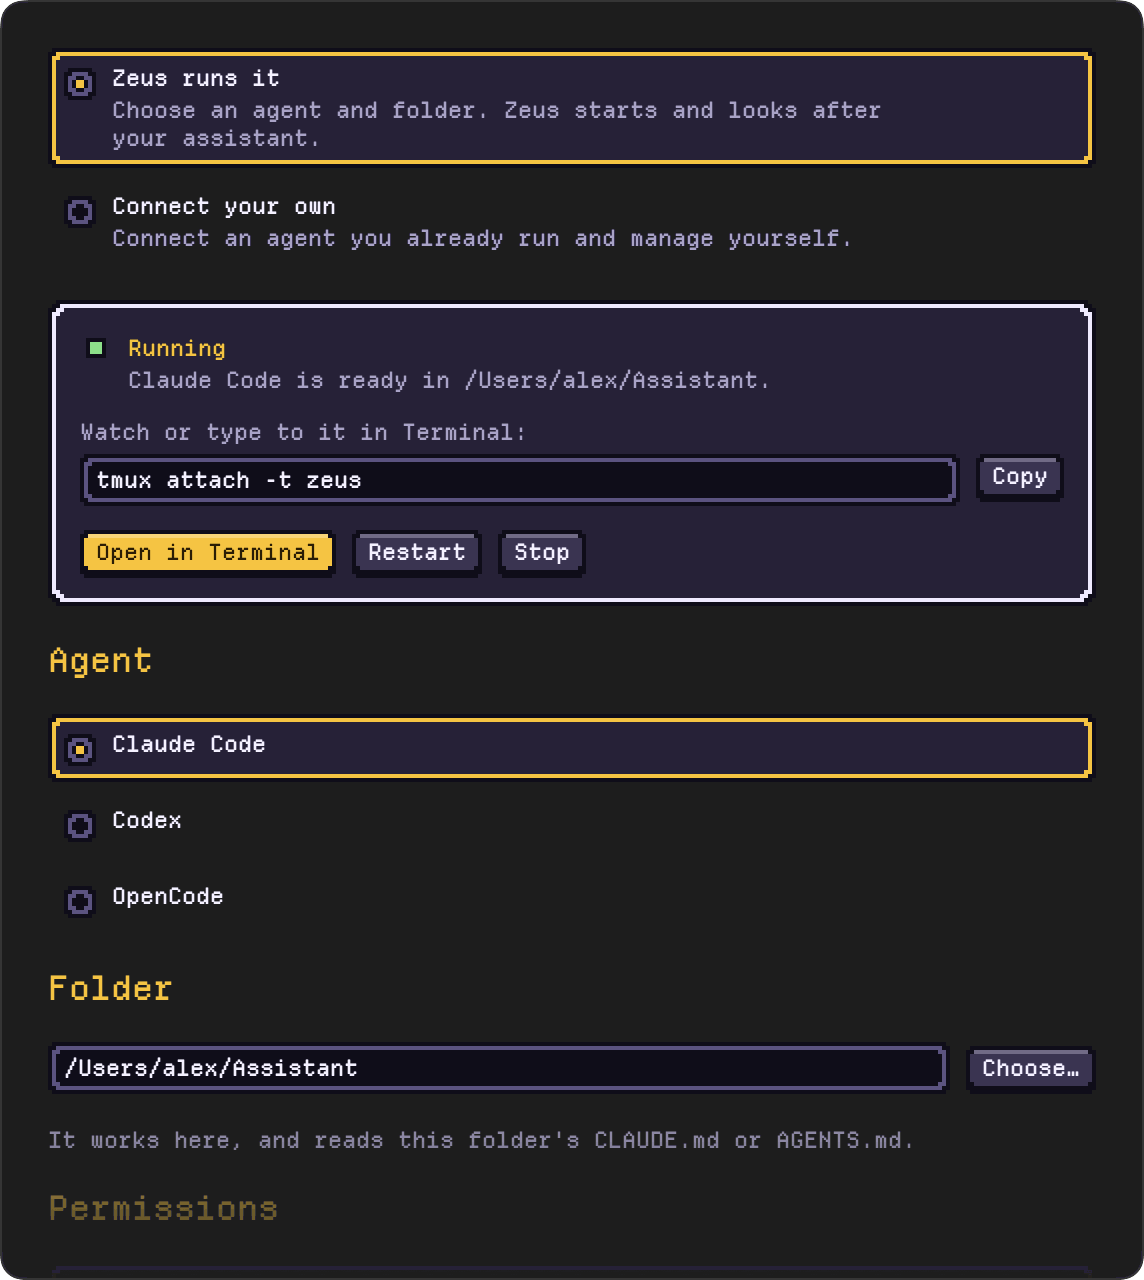
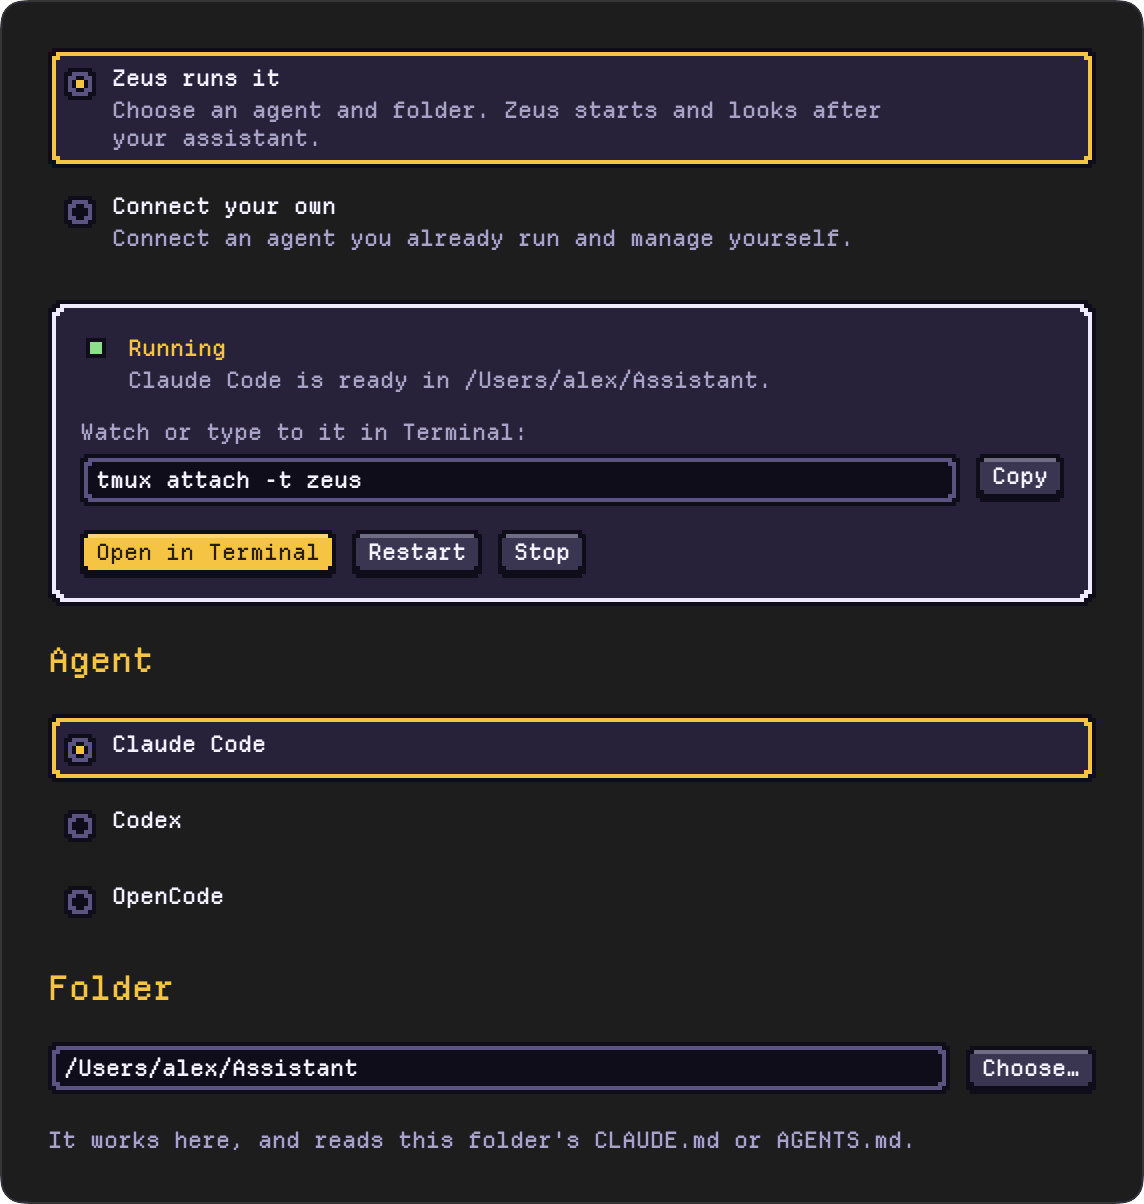
README: Settings art ends after Folder; permission prompts answered in chat
The Settings › Assistant crop now ends cleanly after the Folder caption, with
the full window frame and no partial Permissions heading. The permission line
now says you answer in the chat and Zeus never answers for you.

Claude-Session: https://claude.ai/code/session_012r8H4QHL5ohdtdo5L588Z2

Changed region(s): [[0.0306, 0.0307, 0.979, 0.7068], [0.0306, 0.7375, 0.979, 0.9527], [0.0612, 0.9834, 0.9484, 1.0]]

diff --git a/scripts/design-harness/DesignerAuditRenders.swift b/scripts/design-harness/DesignerAuditRenders.swift
@@ -833,14 +833,12 @@ extension DesignerAuditRenders {
         hub.previewEnabled = true
         let view = AssistantSettingsView(settings: f.settings, managed: model, messaging: hub, testMessage: ComposeModel(cards: f.store, messaging: hub))
             .frame(width: 524).padding(24)
-            .frame(width: 572, height: 640, alignment: .top).clipped()
-            .overlay(alignment: .bottom) {
-                LinearGradient(colors: [Color(nsColor: .windowBackgroundColor).opacity(0), Color(nsColor: .windowBackgroundColor)], startPoint: .top, endPoint: .bottom)
-                    .frame(height: 90)
-            }
+            // Ends just after the Folder caption, before the Permissions heading.
+            .frame(width: 572, height: 582, alignment: .top).clipped()
+            .padding(.bottom, 20)
             .background(Color(nsColor: .windowBackgroundColor))
             .clipShape(RoundedRectangle(cornerRadius: 12))
             .overlay(RoundedRectangle(cornerRadius: 12).strokeBorder(Color(nsColor: .separatorColor)))
-        try await Readme.still("settings-\(look.name)", appearance: look.appearance, size: CGSize(width: 572, height: 640), settle: 0.8, view)
+        try await Readme.still("settings-\(look.name)", appearance: look.appearance, size: CGSize(width: 572, height: 602), settle: 0.8, view)
     }
 }

diff --git a/README.md b/README.md
@@ -51,7 +51,7 @@ Open **Settings › Assistant**, choose **Zeus runs it**, pick an agent and a fo
 
 Zeus starts the assistant in its own tmux session, keeps it running, and picks up the same conversation next time. Peek in whenever you like with **Open in Terminal**, or copy the `tmux attach` command.
 
-You pick its permission mode. When the assistant asks for permission, Zeus shows a card that opens Terminal, so you're always the one who answers.
+You pick its permission mode. When it asks for permission, you answer right in the chat. Zeus never answers for you.
 
 Already run your assistant yourself? Choose **Connect your own** and Zeus joins the session you started.
 
